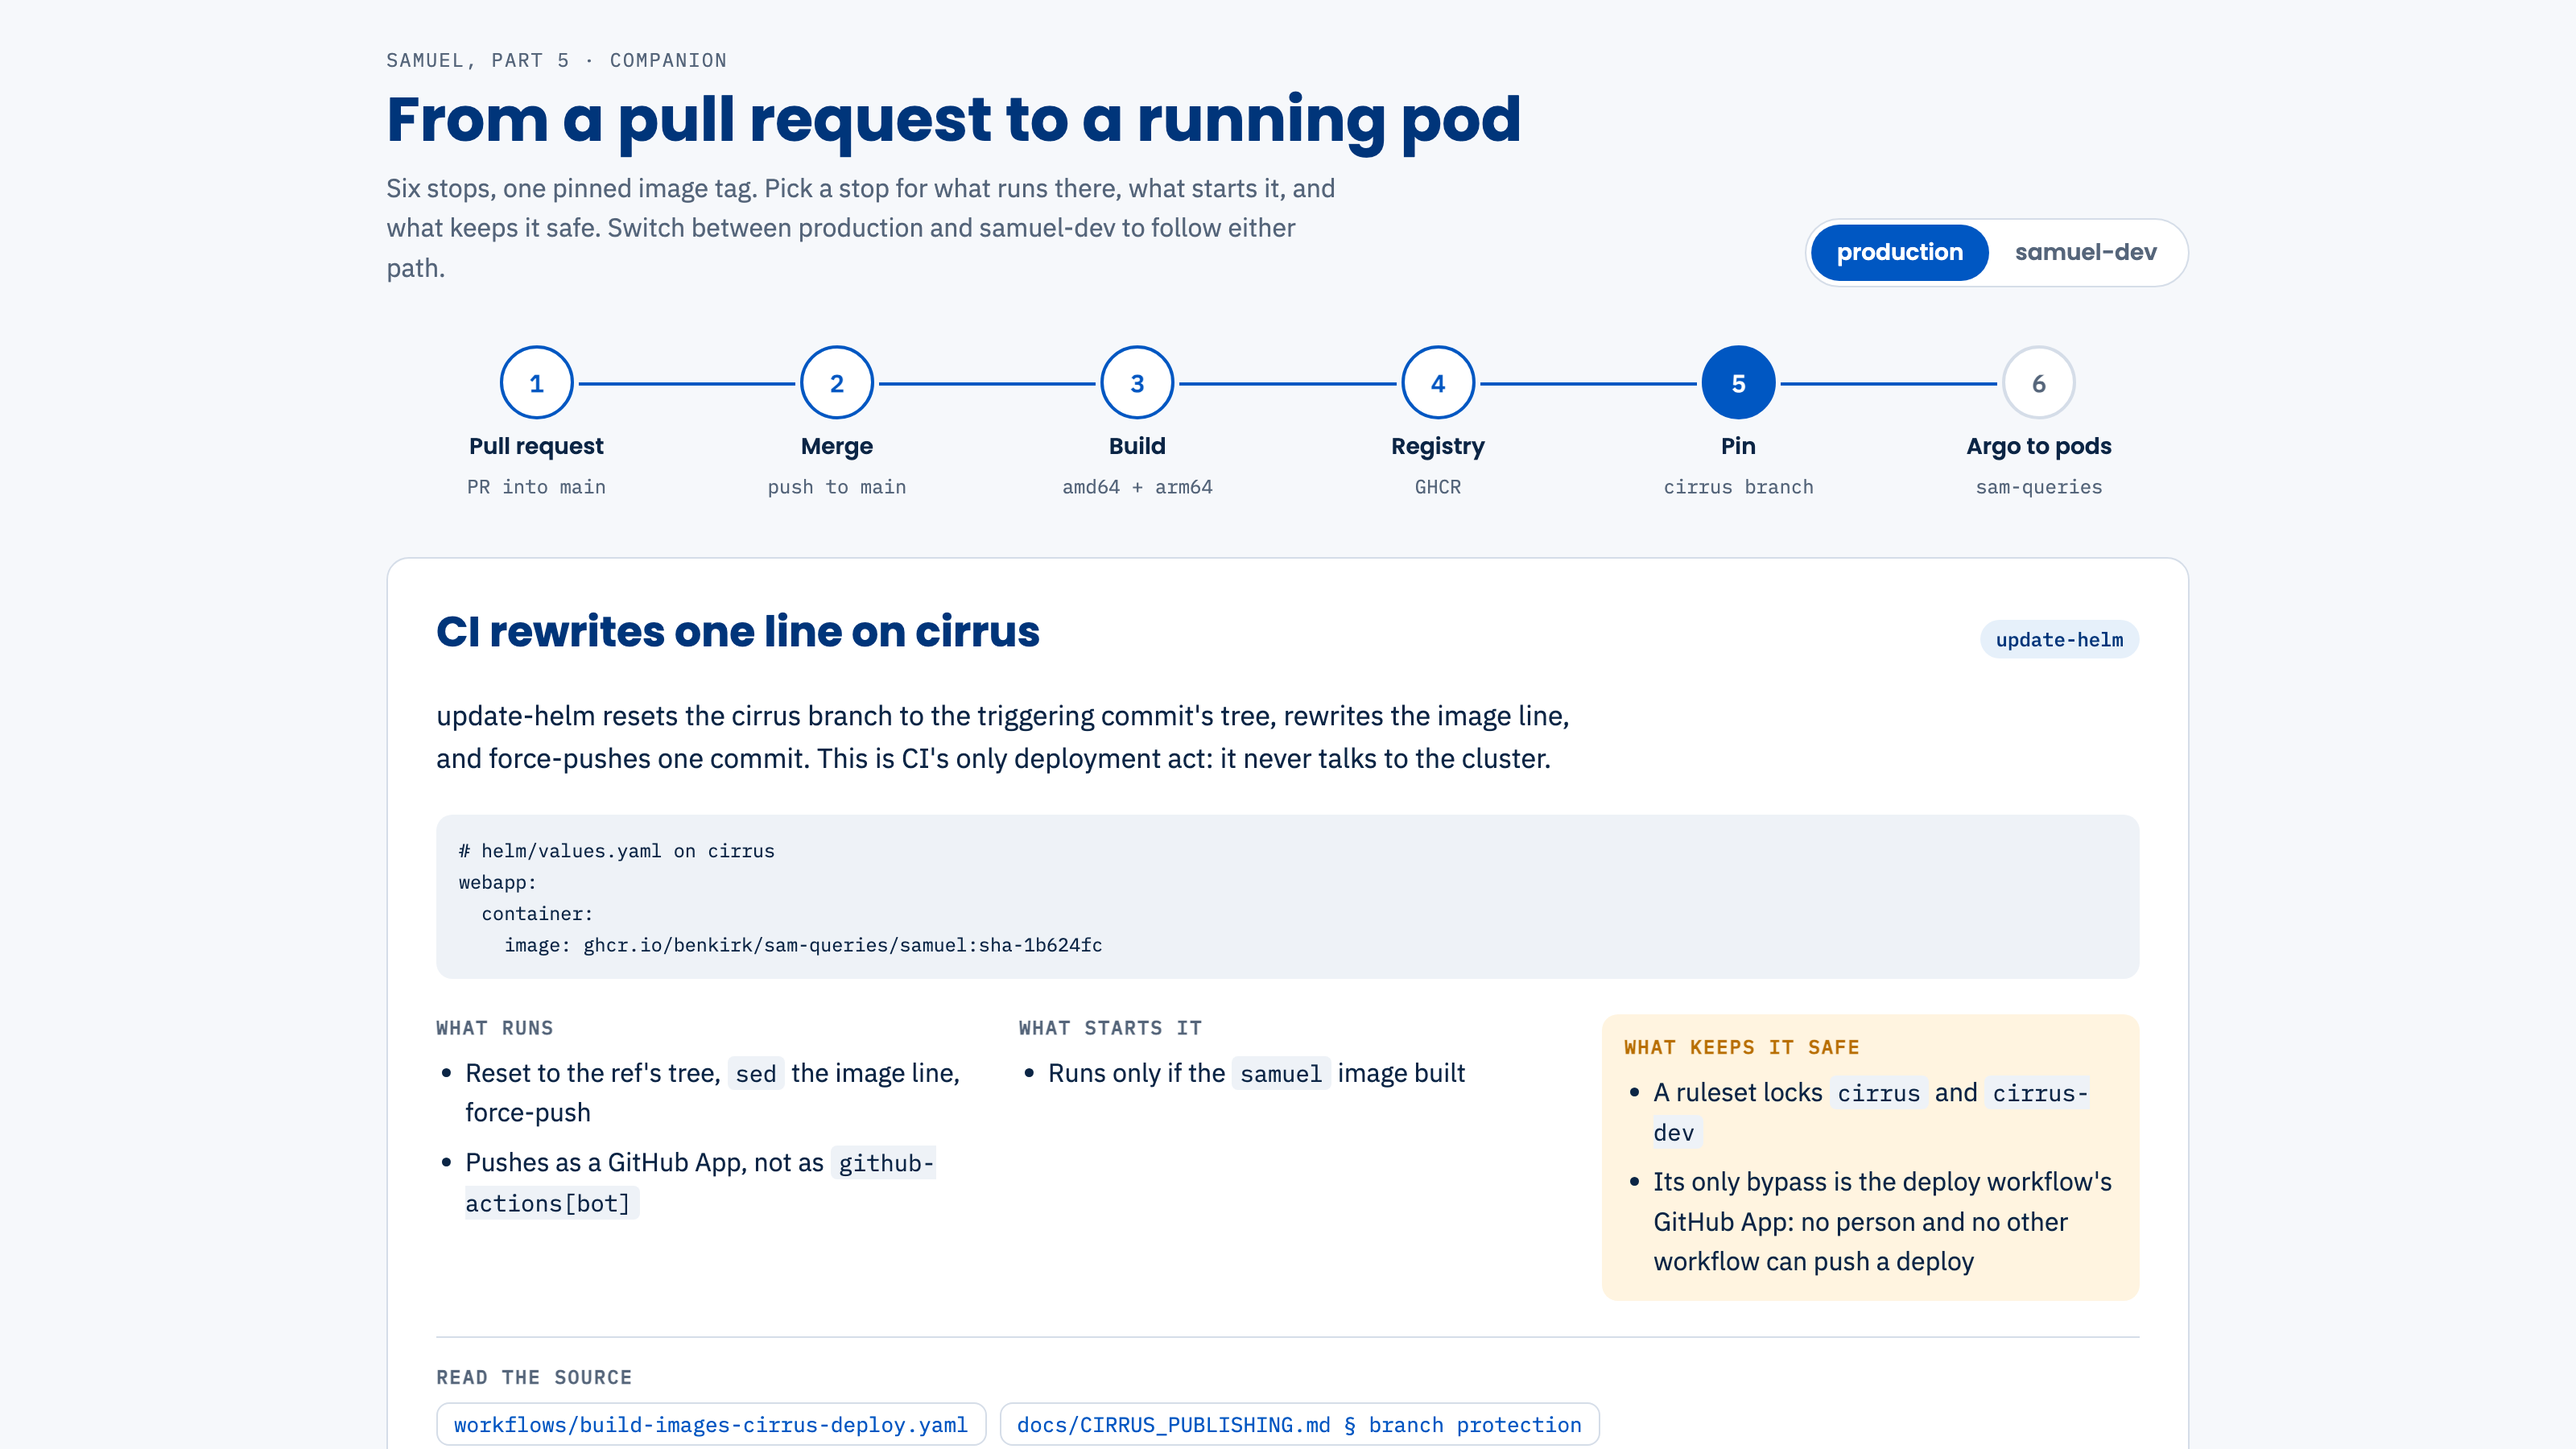
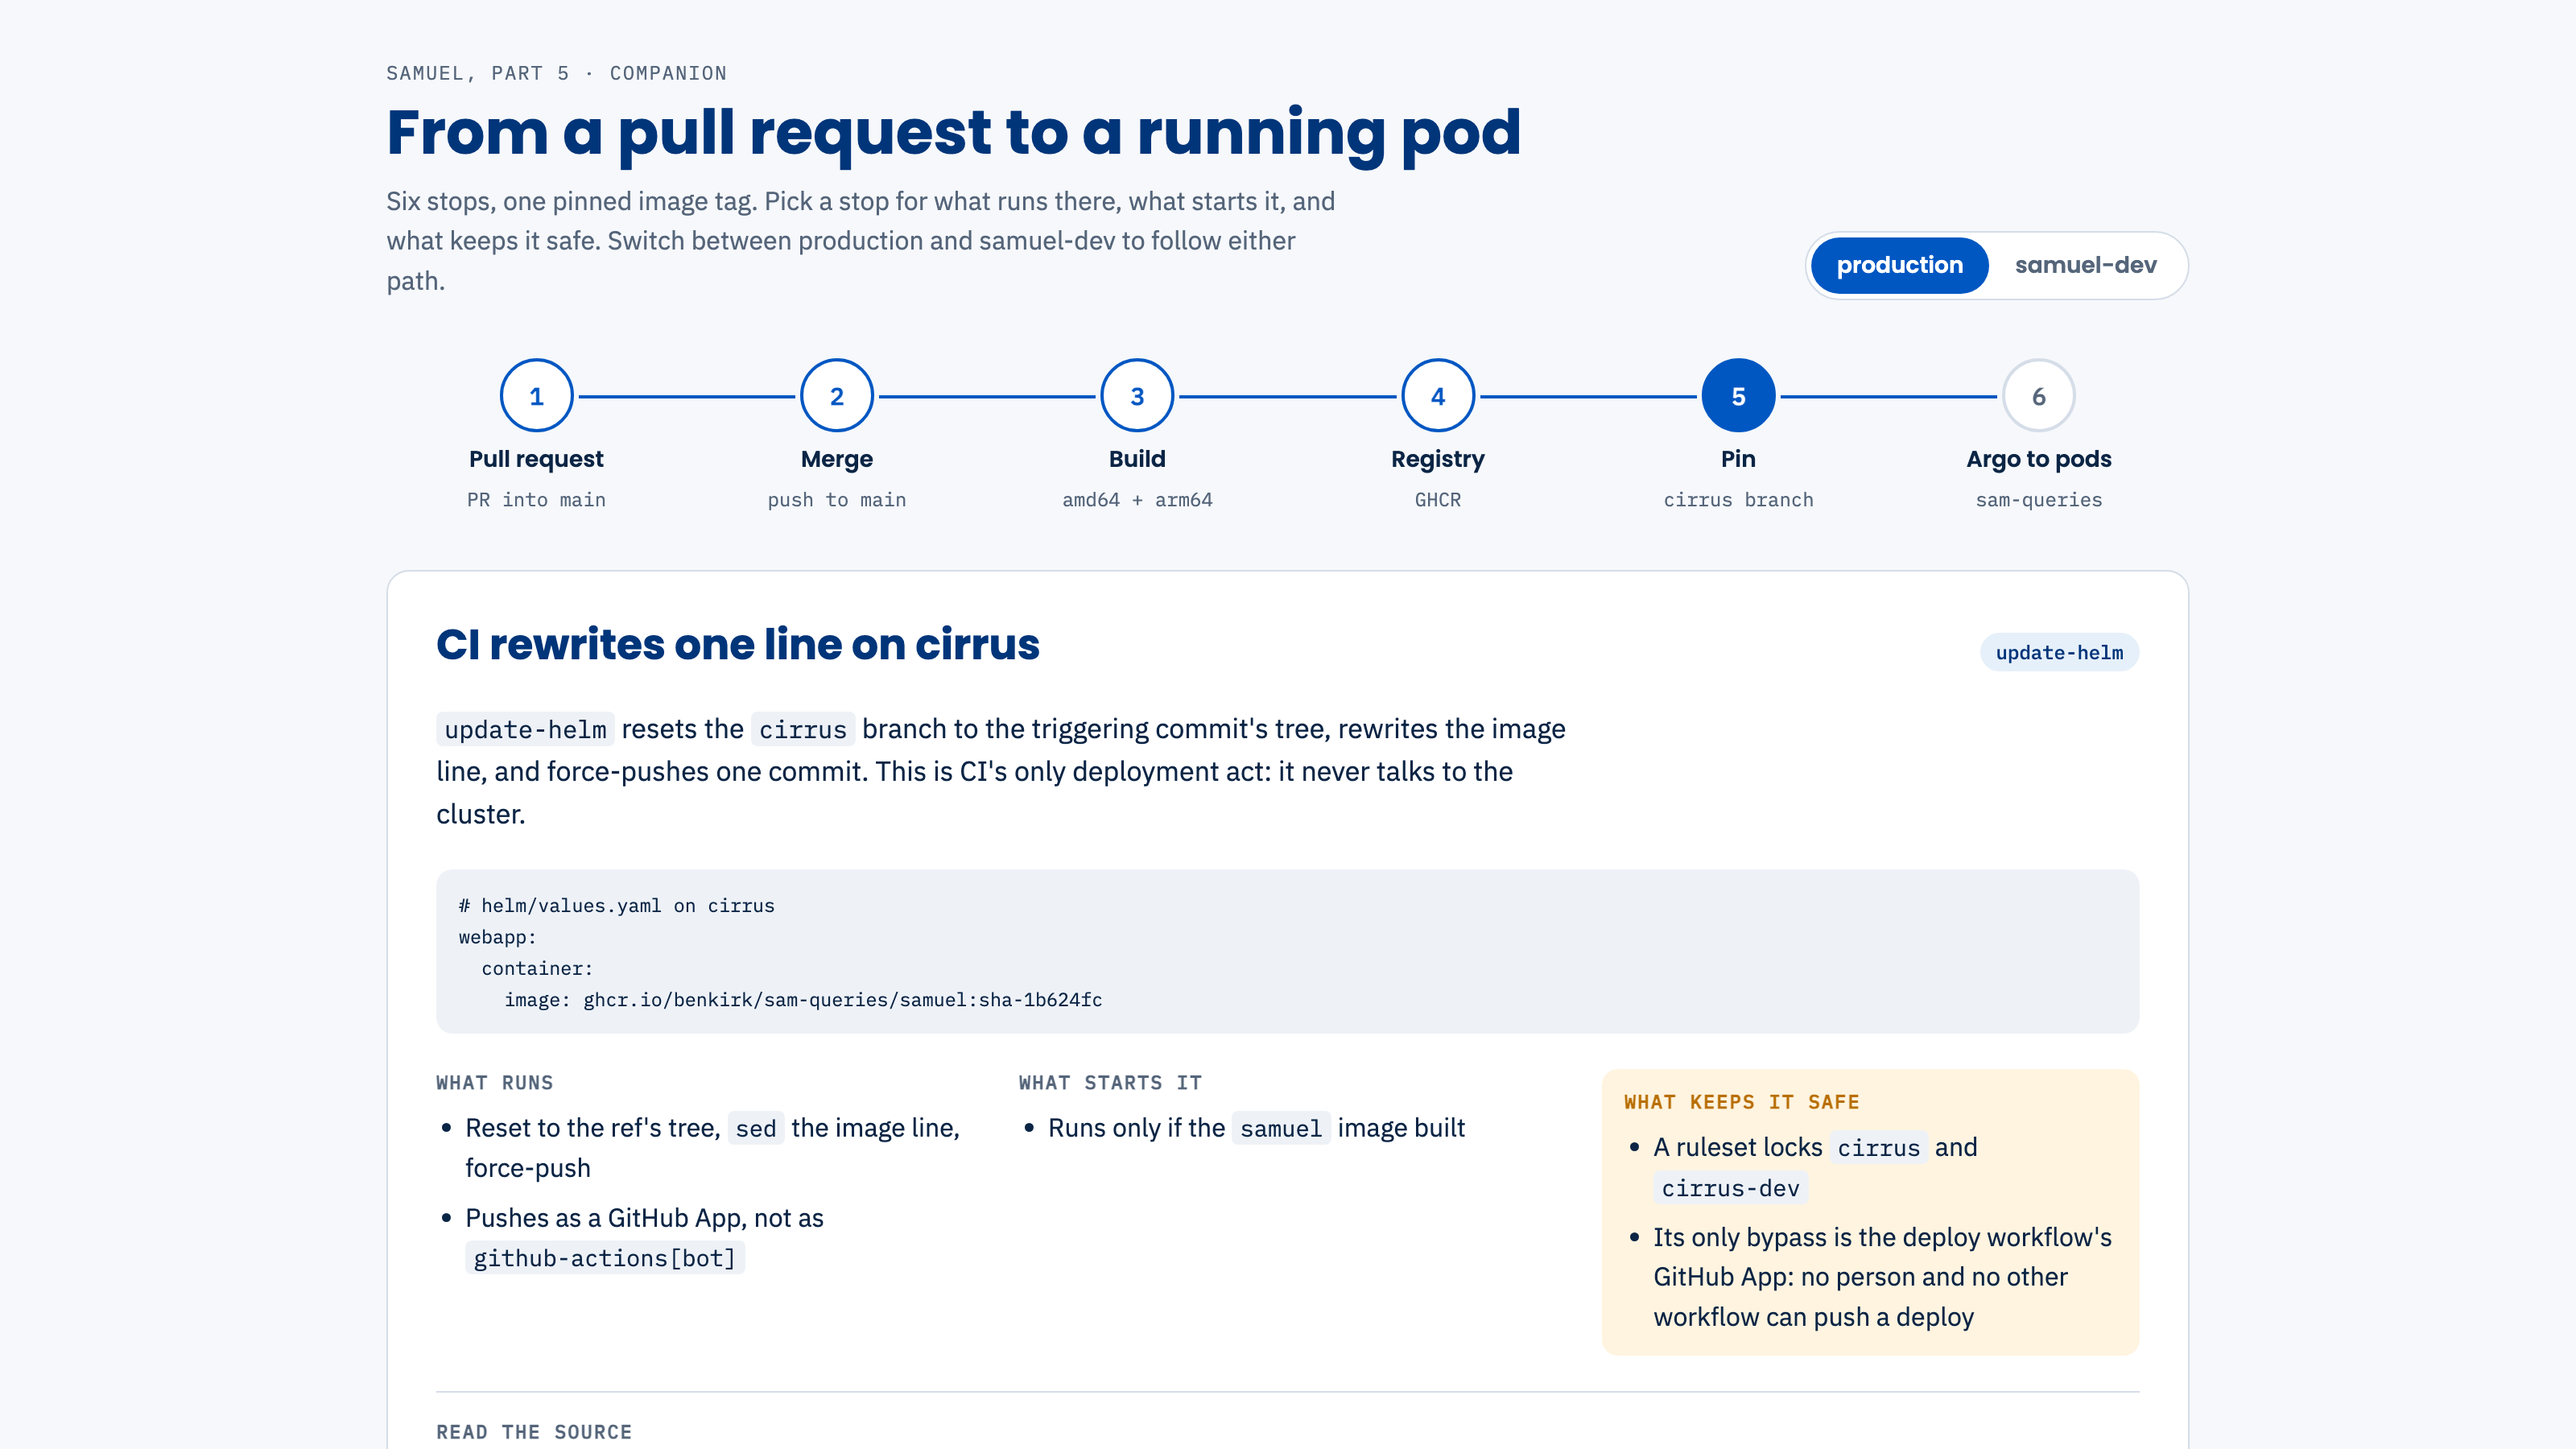
samuel: visual format pass over Parts 1-5 (whitespace, overflows, monospace names)
## Summary
- Short bullet and text-only column slides (61) use `{.vcenter scale="1.15"}`: centered,
  one fixed size for all of them. Selected by measured HTML body use (at most 64%).
  "SAM in one slide" and "is_active" keep `{.vcenter}` alone (PDF too tight at 1.15).
- `.smaller` without `.fill` shrank HTML text to ~60%; those four slides use the recipe.
- PDF overflows fixed: Resources and four-API-families tables get explicit dash widths;
  the tree-audit output gets scale 0.92; the replay table gets widths plus a nowrap span
  on its dates (HTML only), also in concepts_data.py so refresh_data.sh reproduces it.
- Diagrams reshaped to fill: "Follow one job's hours" (pinned neato snake), "The verbs"
  (two-rank dot tree), "Now: jobs live with their machine" (pinned two-column snake).
- Tool, package and database names in monospace on slides and the companion page.
- Companion page: inline code no longer breaks at hyphens; screenshot refreshed.

### Test Results
- `make -C docs/samuel all`: 21 outputs; pptx and PDF slide counts match per part
  (19/40/16/31/33, 138 combined).
- Every HTML slide (1600x900) and PDF page checked before and after; companion has no
  overflow at 360 px.

Claude-Session: https://claude.ai/code/session_014hmr3sDELnrRtMBBjzZQ7V

diff --git a/docs/samuel/companion/pipeline.html b/docs/samuel/companion/pipeline.html
@@ -83,9 +83,9 @@ h1 { font-family: var(--font-display); font-weight: 700; font-size: clamp(26px, 
 .cols ul { margin: 0; padding-left: 18px; display: grid; gap: 6px; }
 .guard { background: var(--amber-soft); border-radius: 10px; padding: 12px 14px; }
 .guard h3 { color: var(--amber); }
-code { font-family: var(--font-mono); font-size: .9em; background: var(--code-bg); padding: 1px 5px; border-radius: 4px; overflow-wrap: anywhere; }
+code { font-family: var(--font-mono); font-size: .9em; background: var(--code-bg); padding: 1px 5px; border-radius: 4px; white-space: nowrap; }
 pre { margin: 0; background: var(--code-bg); border-radius: 10px; padding: 12px 14px; overflow-x: auto; font: 13px/1.5 var(--font-mono); }
-pre code { background: none; padding: 0; }
+pre code { background: none; padding: 0; white-space: inherit; }
 .source { border-top: 1px solid var(--line); padding-top: 16px; min-width: 0; }
 .source h3 { font: 600 12px var(--font-mono); letter-spacing: .08em; text-transform: uppercase; color: var(--muted); margin: 0 0 8px; }
 .source ul { list-style: none; margin: 0; padding: 0; display: flex; flex-wrap: wrap; gap: 8px; }
@@ -143,11 +143,11 @@ footer a { color: var(--brand); }
 <script>
 const T = {
   prod: { name: "production", base: "main", branch: "cirrus", app: "sam-query", ns: "sam-queries",
-          host: "sam.hpc.ucar.edu", replicas: "2, with a PodDisruptionBudget", db: "sam-sql (the MySQL VM)",
-          values: "values.yaml" },
+          host: "sam.hpc.ucar.edu", replicas: "2, with a PodDisruptionBudget", db: "<code>sam-sql</code> (the MySQL VM)",
+          values: "<code>values.yaml</code>" },
   dev:  { name: "samuel-dev", base: "staging", branch: "cirrus-dev", app: "sam-query-dev", ns: "sam-queries-dev",
-          host: "samuel-dev.k8s.ucar.edu", replicas: "1, no disruption budget", db: "sam_dev on csg-postgres",
-          values: "values.yaml + values-dev.yaml" }
+          host: "samuel-dev.k8s.ucar.edu", replicas: "1, no disruption budget", db: "<code>sam_dev</code> on <code>csg-postgres</code>",
+          values: "<code>values.yaml</code> + <code>values-dev.yaml</code>" }
 };
 
 const STOPS = [
@@ -171,7 +171,7 @@ const STOPS = [
     title: t => "A merge to " + t.base + " is the deploy decision",
     chip: t => t.base === "main" ? "promotion merged" : "feature merged",
     summary: t => t.base === "main"
-      ? "Merging the promotion PR pushes main. That push starts the production build, and sync-staging-to-main then resets staging onto main so the two never drift."
+      ? "Merging the promotion PR pushes main. That push starts the production build, and <code>sync-staging-to-main</code> then resets staging onto main so the two never drift."
       : "Merging a feature PR pushes staging. That push starts the dev build, and opens or refreshes the single staging-to-main promotion PR.",
     runs: t => t.base === "main"
       ? [ "<code>build-images-cirrus-deploy</code>, target prod", "<code>sync-staging-to-main</code> resets staging" ]
@@ -188,7 +188,7 @@ const STOPS = [
     title: () => "One image, built natively for two architectures",
     chip: () => "~3 min",
     summary: () => "The setup job resolves the target and pins the peer plugins to commit SHAs once, so both platform builds see identical inputs. Each platform builds on its own native runner and pushes by digest.",
-    runs: () => [ "<code>setup</code>: target, plugin SHAs, build date", "<code>build</code>: ubuntu-24.04 and ubuntu-24.04-arm, no emulation", "<code>merge</code>: <code>docker buildx imagetools create</code> joins the two digests", "<code>summary</code>: the run's summary page" ],
+    runs: () => [ "<code>setup</code>: target, plugin SHAs, build date", "<code>build</code>: <code>ubuntu-24.04</code> and <code>ubuntu-24.04-arm</code>, no emulation", "<code>merge</code>: <code>docker buildx imagetools create</code> joins the two digests", "<code>summary</code>: the run's summary page" ],
     trigger: () => [ "Every run of the deploy workflow; only <code>samuel</code> builds by default" ],
     guard: () => [ "The merge job fails unless it gets exactly two digests", "2.07 GB became 679 MB (uncompressed, arm64); 8 min became about 3" ],
     source: [".github/workflows/build-images-cirrus-deploy.yaml", "docs/CIRRUS_PUBLISHING.md#the-pipeline", "docs/plans/implemented/JOBS_IMAGE.md"] },
@@ -196,7 +196,7 @@ const STOPS = [
   { id: "ghcr", name: "Registry", where: () => "GHCR",
     title: () => "The tagged multi-arch index lands in GHCR",
     chip: () => "ghcr.io/benkirk/sam-queries/samuel",
-    summary: t => "The merged index is tagged with the short commit SHA and the branch name" + (t.base === "main" ? ", plus latest. A v* tag adds its semver components." : ". latest is reserved for main."),
+    summary: t => "The merged index is tagged with the short commit SHA and the branch name" + (t.base === "main" ? ", plus <code>latest</code>. A <code>v*</code> tag adds its semver components." : ". <code>latest</code> is reserved for main."),
     runs: t => [ "<code>sha-&lt;short&gt;</code>: the tag the cluster pins", "<code>" + t.base + "</code>: the moving branch tag", t.base === "main" ? "<code>latest</code>, and semver on tags" : "no <code>latest</code> from staging" ],
     trigger: () => [ "The merge job, after both platforms push" ],
     guard: () => [ "<code>clean-ghcr</code> prunes on Sundays, but keeps every manifest a kept index references", "It dry-runs anywhere but main" ],
@@ -205,7 +205,7 @@ const STOPS = [
   { id: "pin", name: "Pin", where: t => t.branch + " branch",
     title: t => "CI rewrites one line on " + t.branch,
     chip: () => "update-helm",
-    summary: t => "update-helm resets the " + t.branch + " branch to the triggering commit's tree, rewrites the image line, and force-pushes one commit. This is CI's only deployment act: it never talks to the cluster.",
+    summary: t => "<code>update-helm</code> resets the <code>" + t.branch + "</code> branch to the triggering commit's tree, rewrites the image line, and force-pushes one commit. This is CI's only deployment act: it never talks to the cluster.",
     code: t => "# helm/values.yaml on " + t.branch + "\nwebapp:\n  container:\n    image: ghcr.io/benkirk/sam-queries/samuel:sha-1b624fc",
     runs: () => [ "Reset to the ref's tree, <code>sed</code> the image line, force-push", "Pushes as a GitHub App, not as <code>github-actions[bot]</code>" ],
     trigger: () => [ "Runs only if the <code>samuel</code> image built" ],
@@ -215,8 +215,8 @@ const STOPS = [
   { id: "argo", name: "Argo to pods", where: t => t.ns,
     title: t => "Argo CD syncs " + t.app + " and rolls the pods",
     chip: t => t.host,
-    summary: t => "CIRRUS's Argo CD watches " + t.branch + ". A new pin rolls the " + t.name + " release in namespace " + t.ns + ", with " + t.values + ".",
-    runs: t => [ "Replicas: " + t.replicas, "SAM database: " + t.db, "gunicorn gthread pods behind <code>nginx-external</code>", "The <code>samuel-tasks</code> CronJob runs the same image" ],
+    summary: t => "CIRRUS's Argo CD watches <code>" + t.branch + "</code>. A new pin rolls the " + t.name + " release in namespace <code>" + t.ns + "</code>, with " + t.values + ".",
+    runs: t => [ "Replicas: " + t.replicas, "SAM database: " + t.db, "<code>gunicorn</code> <code>gthread</code> pods behind <code>nginx-external</code>", "The <code>samuel-tasks</code> CronJob runs the same image" ],
     trigger: t => [ "The new commit on " + t.branch ],
     guard: t => t.base === "main"
       ? [ "Rollout adds a pod before removing one (maxUnavailable 0, maxSurge 1)", "Readiness gates on the sam database only, so a secondary database roll degrades instead of emptying the Service" ]

diff --git a/docs/samuel/concepts_data.py b/docs/samuel/concepts_data.py
@@ -78,23 +78,27 @@ def users():
     return fenced('\n'.join(keep))
 
 
+def nowrap(text):
+    return f'[{text}]{{style="white-space: nowrap"}}'  # .fill must not break dates at hyphens
+
+
 def replay(session):
     alloc = session.get(Allocation, LEDGER_ALLOCATION)
     txns = sorted(alloc.transactions, key=lambda t: (t.creation_time, t.allocation_transaction_id))
     lines = ['| Date | Type | Amount | Note | Replay |',
-             '|----------|-----------|-------------:|----------------|-------------:|']
+             '|--------------|------------|--------------:|----------------|-------------:|']
     for t in txns:
         amount = '—' if t.transaction_amount is None else f'{t.transaction_amount:+,.0f}'
         if t.transaction_type == 'NEW':
             amount = f'{t.transaction_amount:,.0f}'
         note = (t.transaction_comment or '').strip()
         if t.transaction_type == 'EXTENSION':
-            amount, note = '—', f'to {t.alloc_end_date:%Y-%m-%d}'
+            amount, note = '—', nowrap(f'to {t.alloc_end_date:%Y-%m-%d}')
         if t.transaction_type == 'NEW':
-            note = note or f'to {t.alloc_end_date:%Y-%m-%d}'
+            note = note or nowrap(f'to {t.alloc_end_date:%Y-%m-%d}')
 
         total = replay_amount(txns, until=t.creation_time)
-        lines.append(f'| {t.creation_time:%Y-%m-%d} | {t.transaction_type} | {amount} '
+        lines.append(f'| {nowrap(f"{t.creation_time:%Y-%m-%d}")} | {t.transaction_type} | {amount} '
                      f'| {note} | {total:,.0f} |')
     lines.append(f'| | **amount** | | | **{alloc.amount:,.0f}** |')
     assert abs(replay_amount(txns) - float(alloc.amount)) < 0.5, 'replay != amount'
